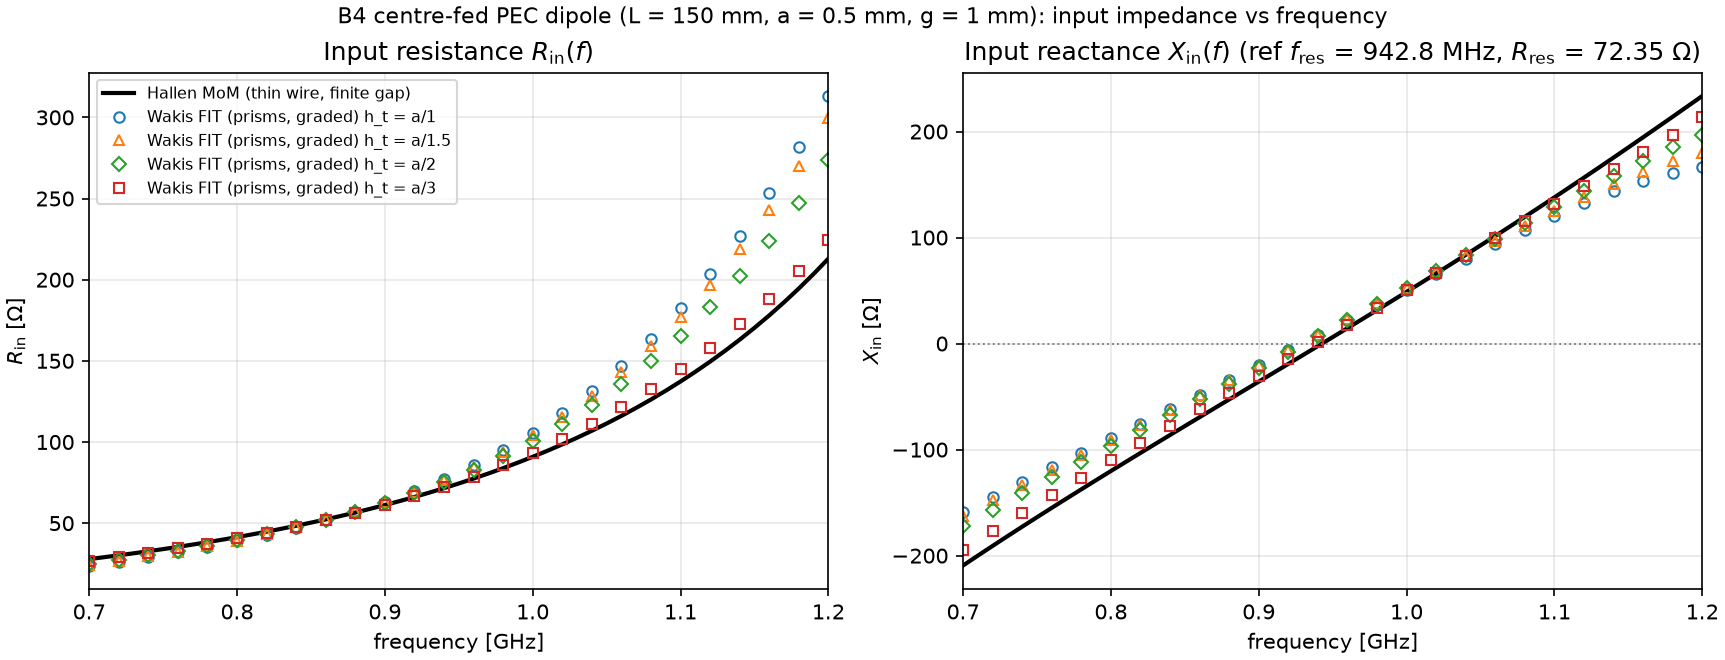
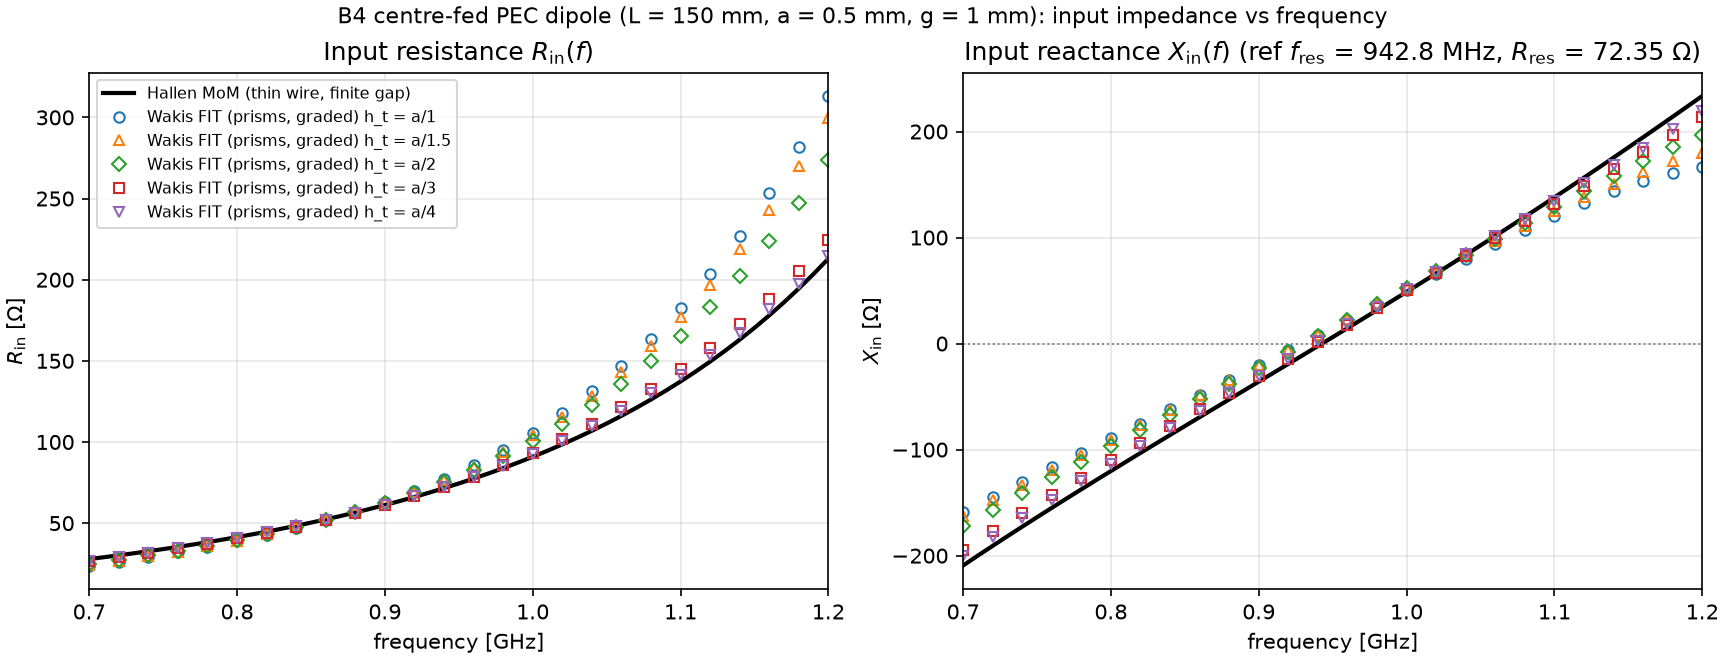
prism-dipole: h_t = a/4 run (f_res 0.56 %, Z NRMS 2.2 %), figures

diff --git a/studies/prism-dipole/README.md b/studies/prism-dipole/README.md
@@ -28,7 +28,8 @@
 | `prism-graded` | $a$ ($0.500\ \text{mm}$) | 2,295,309 | 44,320 | 2,652 | 929.10 | 1.45 % | 72.94 | 0.82 % | 14.78 % |
 | `prism-graded` | $a/1.5$ ($0.333\ \text{mm}$) | 2,300,497 | 56,640 | 3,193 | 928.28 | 1.54 % | 72.40 | 0.06 % | 12.90 % |
 | `prism-graded` | $a/2$ ($0.250\ \text{mm}$) | 2,418,597 | 117,973 | 6,464 | 930.83 | 1.27 % | 72.05 | 0.41 % | 9.40 % |
-| **`prism-graded`** | **$a/3$ ($0.167\ \text{mm}$)** | **3,417,985** | **114,148** | **8,925** | **937.83** | **0.53 %** | **71.61** | **1.02 %** | **3.35 %** |
+| `prism-graded` | $a/3$ ($0.167\ \text{mm}$) | 3,417,985 | 114,148 | 8,925 | 937.83 | 0.53 % | 71.61 | 1.02 % | 3.35 % |
+| **`prism-graded`** | **$a/4$ ($0.125\ \text{mm}$)** | **4,489,813** | **158,459** | **21,387** | **937.53** | **0.56 %** | **71.40** | **1.31 %** | **2.20 %** |
 | `prism-graded-bigdomain` | $a$ ($0.500\ \text{mm}$) | 6,235,727 | 44,319 | 7,132 | 932.92 | 1.05 % | 76.42 | 5.62 % | 14.70 % |
 | `prism-graded-nomerge` | $a$ ($0.500\ \text{mm}$) | 2,300,301 | 44,320 | 1,457 | 923.60 | 2.04 % | 72.11 | 0.32 % | 15.90 % |
 | `prism-graded-nomerge` | $a/2$ ($0.250\ \text{mm}$) | 2,423,589 | 117,974 | 4,430 | 927.33 | 1.64 % | 71.56 | 1.09 % | 10.08 % |
@@ -40,7 +41,7 @@
 
 ### Interpretation
 
-- **Verdict: prisms lose on B4.** The fixed conformal-PEC Cartesian arm reaches $f_{\text{res}}$ error $0.05\text{ \%}$, $R_{\text{res}}$ $0.8\text{ \%}$ and $Z_{\text{in}}$ NRMS $1.3\text{ \%}$ already at $h_t = a$ ($2.6\ \text{M}$ E-unknowns, $242\ \text{s}$), against $1.45\text{ \%}$, $0.8\text{ \%}$, $14.8\text{ \%}$ ($2.3\ \text{M}$ E+B unknowns, $2{,}652\ \text{s}$) for prisms; the best prism run ($h_t = a/3$) is still $0.53\text{ \%}$ and $3.4\text{ \%}$ NRMS. The prism arm is limited by its first-order lateral absorber (the big-domain run moves $f_{\text{res}}$ by $0.4\text{ \%}$ and $R_{\text{res}}$ by $5\text{ \%}$) and by the coarse feed layer; a radial (complex-stretched) PML for the triangle mesh is the next step.
+- **Verdict: prisms lose on B4.** The fixed conformal-PEC Cartesian arm reaches $f_{\text{res}}$ error $0.05\text{ \%}$, $R_{\text{res}}$ $0.8\text{ \%}$ and $Z_{\text{in}}$ NRMS $1.3\text{ \%}$ already at $h_t = a$ ($2.6\ \text{M}$ E-unknowns, $242\ \text{s}$), against $1.45\text{ \%}$, $0.8\text{ \%}$, $14.8\text{ \%}$ ($2.3\ \text{M}$ E+B unknowns, $2{,}652\ \text{s}$) for prisms; the finest prism run ($h_t = a/4$, $4.5\ \text{M}$ unknowns, $21{,}387\ \text{s}$) reaches $0.56\text{ \%}$, $1.3\text{ \%}$ and $2.2\text{ \%}$ NRMS. The prism arm is limited by its first-order lateral absorber (the big-domain run moves $f_{\text{res}}$ by $0.4\text{ \%}$ and $R_{\text{res}}$ by $5\text{ \%}$) and by the coarse feed layer; a radial (complex-stretched) PML for the triangle mesh is the next step.
 
 - **Conforming wire cross-section:** `prism-graded` represents the $a = 0.5\ \text{mm}$ wire boundary as an area-matched polygon ring rather than a rectilinear staircase. Already at the coarsest resolution $h_t = a$, the radiation resistance at resonance is within $\sim 1\text{ \%}$ of Hallén MoM ($72.94\ \Omega$, $0.82\text{ \%}$ error).
 - **Feed-region resolution ($h_t = a \to a/3$):** at coarse transverse resolution $h_t = a \dots a/2$ (where $h_z = \min(g, 4 h_t) = g = 1\ \text{mm}$ spans the gap in a single layer), $f_{\text{res}}$ is $1.3\text{--}1.5\text{ \%}$ low ($928\text{--}931\ \text{MHz}$) and $Z_{\text{in}}$ NRMS is $9.4\text{--}14.8\text{ \%}$. Refining to $h_t = a/3$ ($h_z = 2 h_t = 0.67\ \text{mm}$, splitting the $1\ \text{mm}$ gap into two layers) brings $f_{\text{res}}$ to $937.83\ \text{MHz}$ ($0.53\text{ \%}$ error), $R_{\text{res}}$ to $71.61\ \Omega$ ($1.02\text{ \%}$ error), and $Z_{\text{in}}$ NRMS to $3.35\text{ \%}$ at $3.42\ \text{M}$ $E+B$ unknowns ($\sim 1.7\ \text{M}$ equivalent $E$ unknowns, $\sim 4\times$ fewer cells than the $7.2\ \text{M}$-unknown Cartesian $a/3$ grid) and $8{,}925\ \text{s}$. ($h_t = a/4$ is not present in `data/`.)
